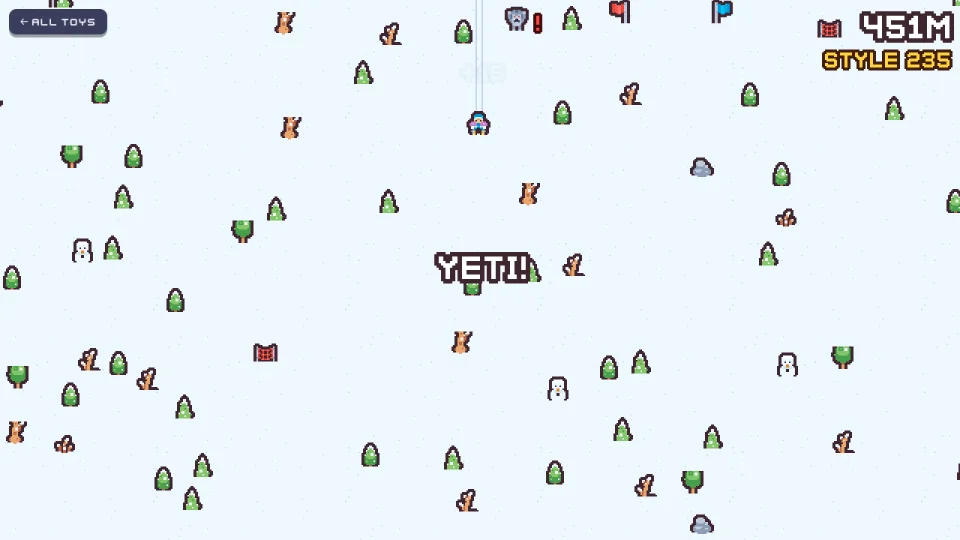
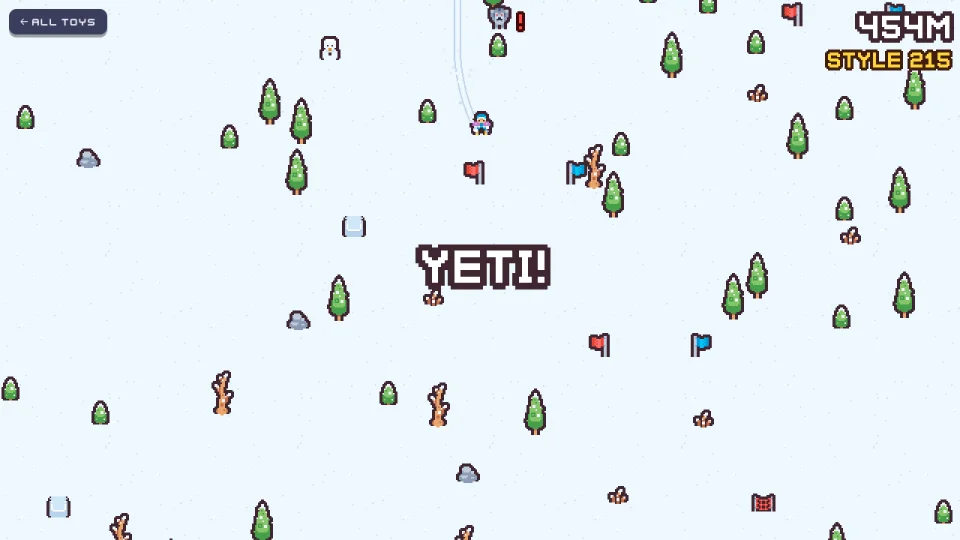
Downhill: stack the tall pines and dead trees two tiles high

diff --git a/games/downhill/src/SlopeScene.ts b/games/downhill/src/SlopeScene.ts
@@ -240,6 +240,8 @@ export class SlopeScene extends Phaser.Scene {
     for (const t of data.things) {
       const img = add((t.kind === 'ramp' ? this.add.image(t.x, t.y, RAMP) : this.add.image(t.x, t.y, SKI, KINDS[t.kind].frame)).setOrigin(0.5, 1).setDepth(t.y));
       chunk.sprites.set(t, img);
+      const top = (KINDS[t.kind] as { top?: number }).top;
+      if (top !== undefined) img.setData('top', add(this.add.image(t.x, t.y - TILE, SKI, top).setOrigin(0.5, 1).setDepth(t.y)));
       if (t.kind === 'tower') {
         add(this.add.image(t.x, t.y - TILE, SKI, T.lift.pole).setOrigin(0.5, 1).setDepth(t.y));
         add(this.add.image(t.x, t.y - TILE * 2, SKI, T.lift.top).setOrigin(0.5, 1).setDepth(OVERHEAD + 1));
@@ -583,7 +585,11 @@ export class SlopeScene extends Phaser.Scene {
     playSfx(this, SFX, 'ouch', { volume: 0.35 });
     this.spray.emitParticleAt(this.x, this.y - 4, 10);
     this.cameras.main.shake(120, 0.004);
-    if (img && !this.tweens.isTweening(img)) this.tweens.add({ targets: img, angle: { from: -12, to: 12 }, duration: 70, yoyo: true, repeat: 2, onComplete: () => img.setAngle(0) });
+    // A shake on whole pixels, top and trunk together.
+    if (img && !this.tweens.isTweening(img)) {
+      const parts = [img, img.getData('top') as Phaser.GameObjects.Image | undefined].filter((p) => !!p);
+      this.tweens.add({ targets: parts, x: img.x + 1, duration: 50, yoyo: true, repeat: 2, ease: 'Stepped' });
+    }
     // The tumble: spin over and land flat.
     this.tweens.killTweensOf(this.skier);
     this.skier.setAngle(0);

diff --git a/games/downhill/src/world.ts b/games/downhill/src/world.ts
@@ -15,6 +15,8 @@ const START_CLEAR = { x: 110, y: 230 };
 
 export interface Kind {
   frame: number;
+  /** The tile above it, for the tall trees, which stand two tiles high. */
+  top?: number;
   /** Hit box above the ground point (bottom middle of the tile). */
   hit: { w: number; h: number };
   /** What touching it does. */
@@ -22,11 +24,9 @@ export interface Kind {
 }
 
 export const KINDS = {
-  pine: { frame: 6, hit: { w: 6, h: 5 }, effect: 'crash' },
-  pine2: { frame: 30, hit: { w: 6, h: 5 }, effect: 'crash' },
-  tree: { frame: 18, hit: { w: 6, h: 5 }, effect: 'crash' },
-  dead: { frame: 7, hit: { w: 6, h: 4 }, effect: 'crash' },
-  dead2: { frame: 19, hit: { w: 6, h: 4 }, effect: 'crash' },
+  pine: { frame: 18, top: 6, hit: { w: 6, h: 5 }, effect: 'crash' },
+  smallPine: { frame: 30, hit: { w: 6, h: 5 }, effect: 'crash' },
+  dead: { frame: 19, top: 7, hit: { w: 6, h: 4 }, effect: 'crash' },
   twigs: { frame: 31, hit: { w: 10, h: 4 }, effect: 'crash' },
   rock: { frame: 81, hit: { w: 12, h: 6 }, effect: 'crash' },
   snowman: { frame: 69, hit: { w: 8, h: 5 }, effect: 'crash' },
@@ -84,11 +84,9 @@ function hash(...ns: number[]) {
 }
 
 const SCENERY: [KindName, number][] = [
-  ['pine', 5],
-  ['pine2', 5],
-  ['tree', 2],
-  ['dead', 1.5],
-  ['dead2', 1],
+  ['pine', 6],
+  ['smallPine', 5],
+  ['dead', 2],
   ['twigs', 1.2],
   ['rock', 1.5],
   ['snowman', 0.4],
